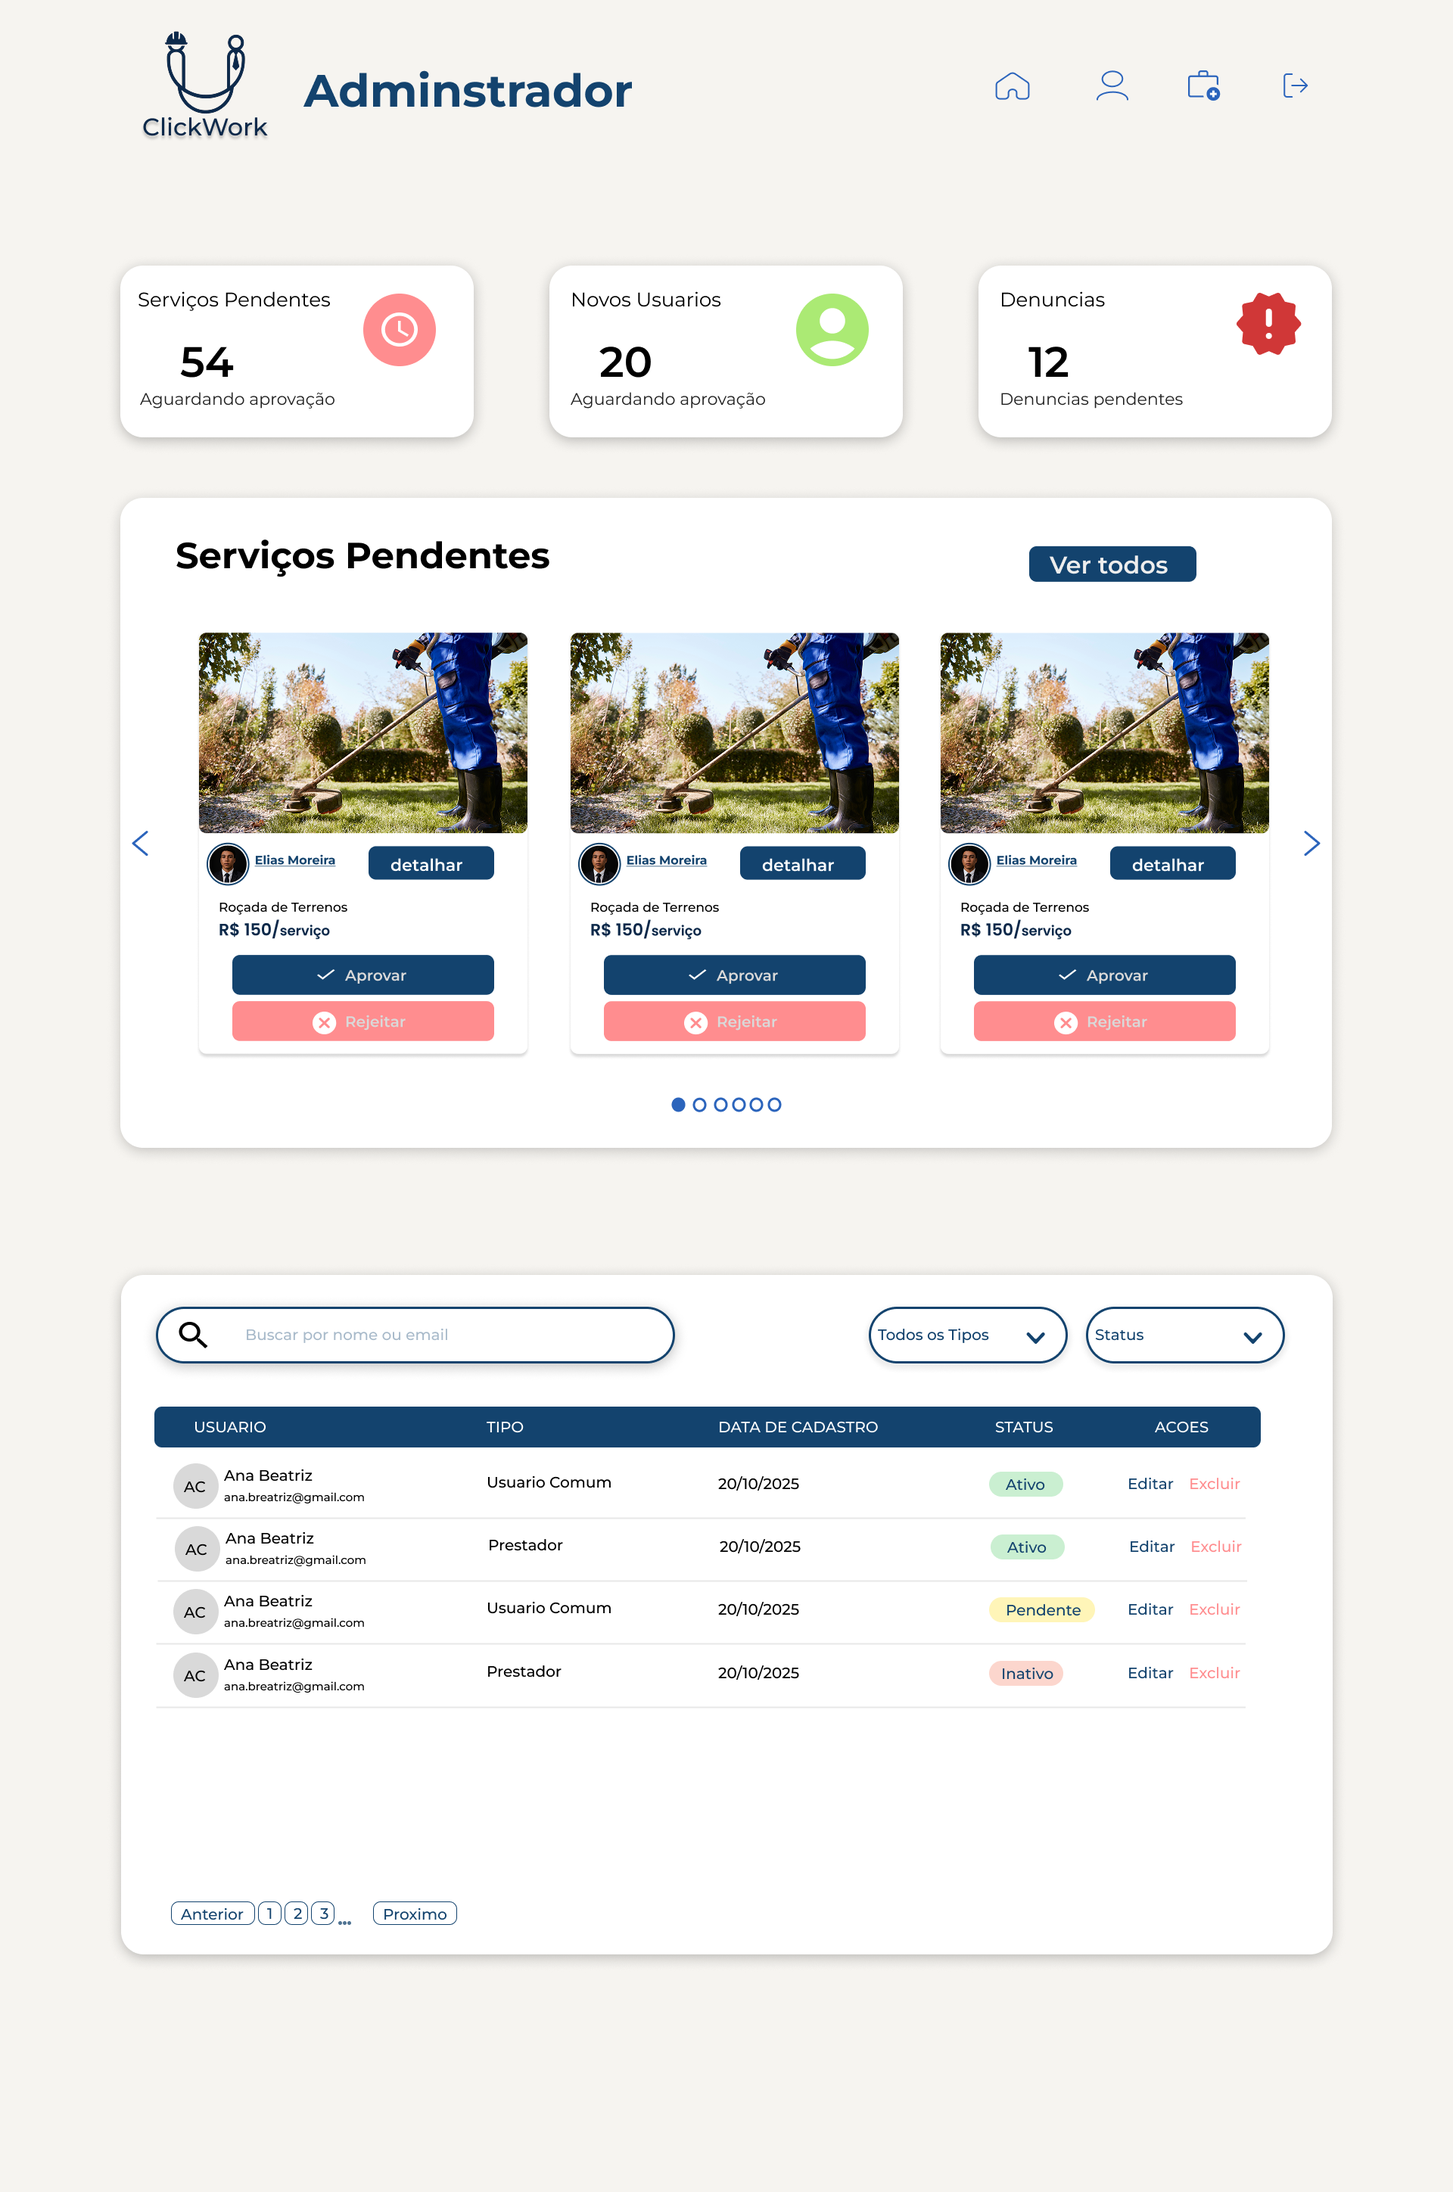
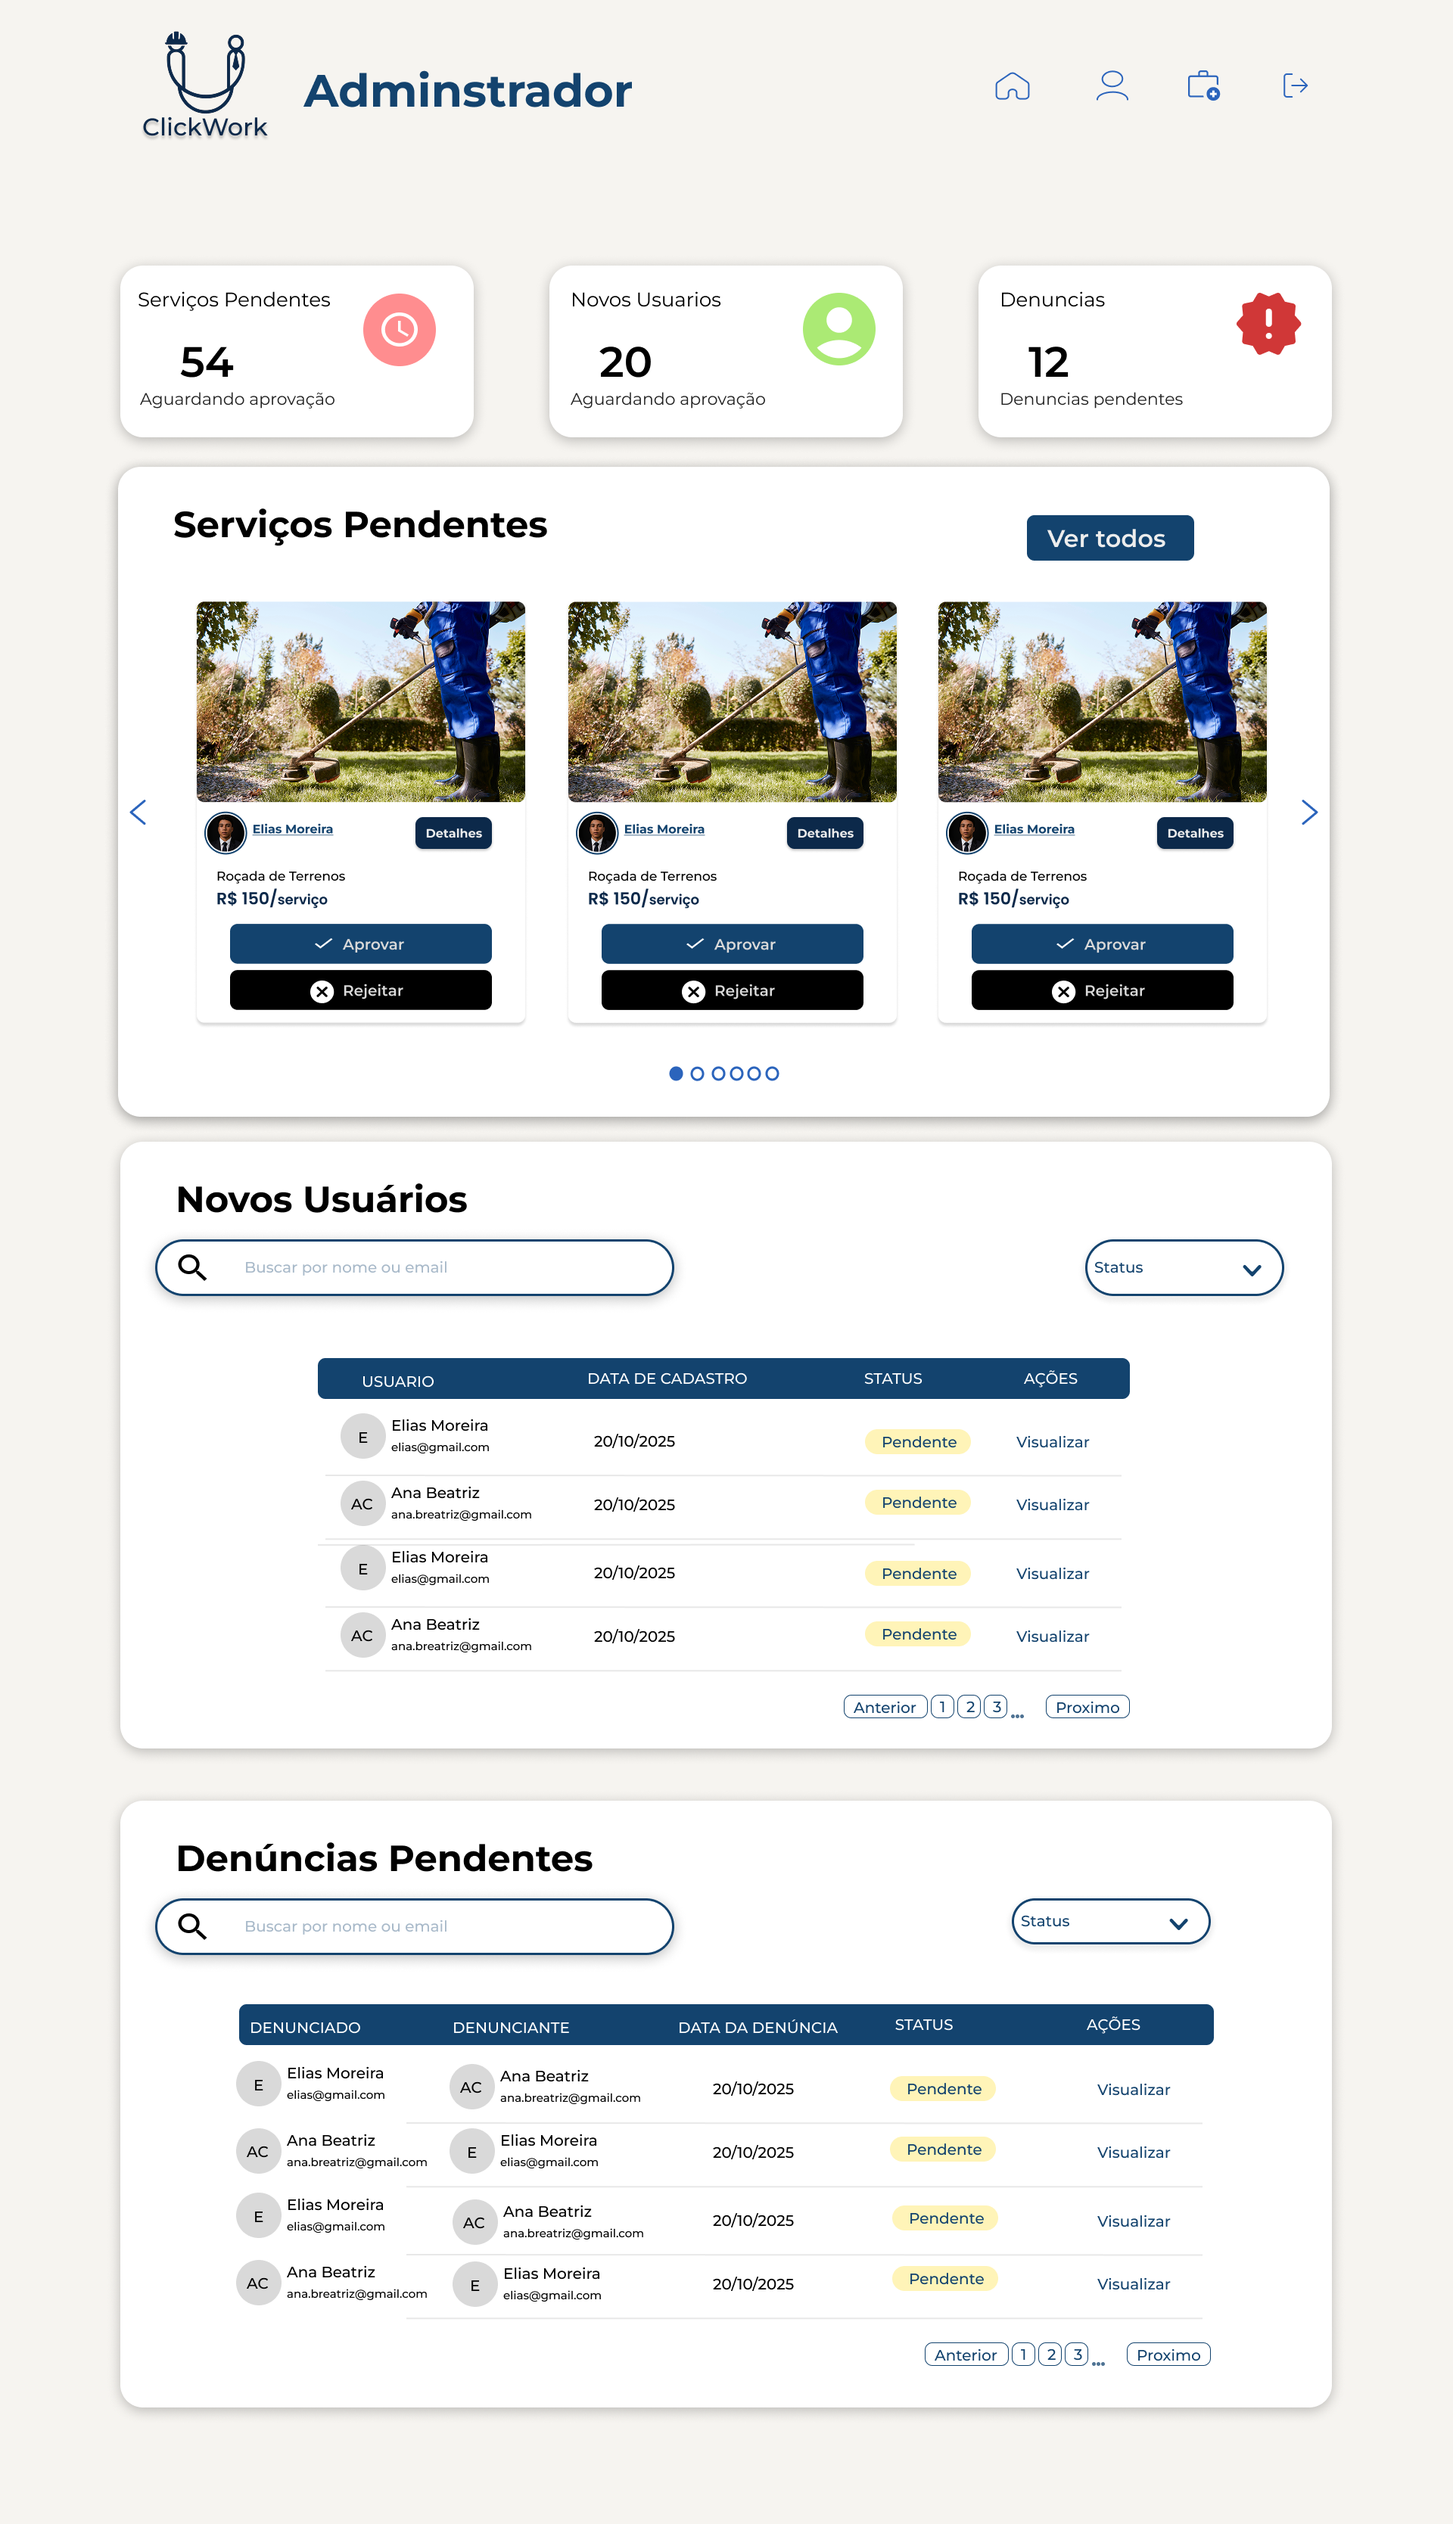
Atualizando e adicionando páginas prototipagem - adicionando 3 requisitos do ADM

diff --git a/Documentacao projeto/modelo_organizacao_projeto_gitlab/projeto.md b/Documentacao projeto/modelo_organizacao_projeto_gitlab/projeto.md
@@ -102,6 +102,10 @@ RQ-11 | Buscar serviço | A busca deve retornar apenas anúncios ativos e aprova
 RQ-12 | Sistema de denúncias | Qualquer usuário pode denunciar anúncios ou perfis. Denúncias serão analisadas em até 48h. O conteúdo denunciado ficará oculto até conclusão da análise em casos graves. | Recomendável
 RQ-13 | Notificações push | Notificações serão enviadas apenas para eventos relevantes (novas mensagens, solicitações). O usuário pode gerenciar preferências no perfil. | Recomendável
 RQ-14 | Ver relatórios | O painel será disponibilizado aos usuários que possuem serviços cadastrados para que podem utilizá-lo como um dashboard de relatórios gerados com base em visualizações do perfil e serviço e solicitações dos clientes | Essencial
+RQ - 15 | Análise de cadastro | O administrador deverá analisar todo cadastro de usuário que seja feito na plataforma, podendo aceitar ou recusar o usuário caso necessário | Essencial
+RQ - 16 | Análise de denúncia | O administrador será responsável por analisar as denúncias feitas sobre determinados serviços ou prestador de serviços, caso as denúncias sejam válidas ele pode remover o usuário ou a postagem denunciada | Essencial
+RQ - 17 | Análise de  postagem de serviço | O administrador será responsável por analisar todo serviço antes dele ser postado na plataforma para ver se ele é válido e compatível com o site | Essencial
+
 
 
 
@@ -130,27 +134,31 @@ RNF-12 | Compatibilidade | O sistema deve ser compatível com navegadores modern
 ### Fluxo Básico do Cliente
 
 ![1_Cadastro](img/prototipo/usuario/Tela%20Cadastro%20Informacoes%20Pessoais.png)
+![1_Doc](img/prototipo/usuario/Tela%20Cadastro%20Documento%20Pessoal.png)
+![2_Endereco](img/prototipo/usuario/Tela%20Cadastro%20Prestador%20Endereco.png)
+![3_Redes](img/prototipo/usuario/Tela%20Cadastro%20Redes%20sociais.png)
 ![2_Login](img/prototipo/usuario/Tela%20Login.png)
 ![3_Home](img/prototipo/usuario/Pagina%20inicial%20Sem%20Login.png)
-![4_Servicos](img/prototipo/usuario/Pagina%20servicos%20categoria.png)
+![4_ServicosCategoria](img/prototipo/usuario/Pagina%20servicos%20categoria.png)
+![4_Servico](img/prototipo/usuario/Pagina%20de%20servico.png)
 ![5_Perfil](img/prototipo/usuario/Tela%20perfil%20Usuario%20comum.png)
 ![6_Esqueci](img/prototipo/usuario/esqueceu%20a%20senha.png)
 ![7_Avaliacao](img/prototipo/usuario/POP-UP%20AVALIAÇÃO.png)
 
-### Fluxo de Conversão (Cliente -> Prestador)
+### Fluxo de Opções para o Prestador
 
-![1_Doc](img/prototipo/usuario/Tela%20Cadastro%20Documento%20Pessoal.png)
-![2_Endereco](img/prototipo/usuario/Tela%20Cadastro%20Prestador%20Endereco.png)
-![3_Redes](img/prototipo/usuario/Tela%20Cadastro%20Redes%20sociais.png)
-![4_Servico](img/prototipo/prestador/Tela%20Cadastro%20Servico.png)
+
+![4_CadastrarServico](img/prototipo/prestador/Tela%20Cadastro%20Servico.png)
+![4_PerfilPrestador](img/prototipo/prestador/Tela%20perfil.png)
 ![5_Painel](img/prototipo/prestador/Tela%20painel%20prestador.png)
+![5_Painel](img/prototipo/prestador/Pagina%20servicos%20do%20prestador.png)
 
 ### Fluxo do Moderador (ADM)
 
 ![1_ADM](img/prototipo/administrador/ADM.png)
-![2_Verif1](img/prototipo/administrador/edit%20user.png)
-![3_Verif2](img/prototipo/administrador/edit%20user-1.png)
-![4_Visualizacao](img/prototipo/administrador/visualizacao%20do%20servico.png)
+![2_Verif1](img/prototipo/administrador/servico-adm.png)
+![3_Verif2](img/prototipo/administrador/denuncia-adm.png)
+![4_Visualizacao](img/prototipo/administrador/analise-cadastro-adm.png)
 
 [ [INÍCIO](#projeto-de-software) ]
 
